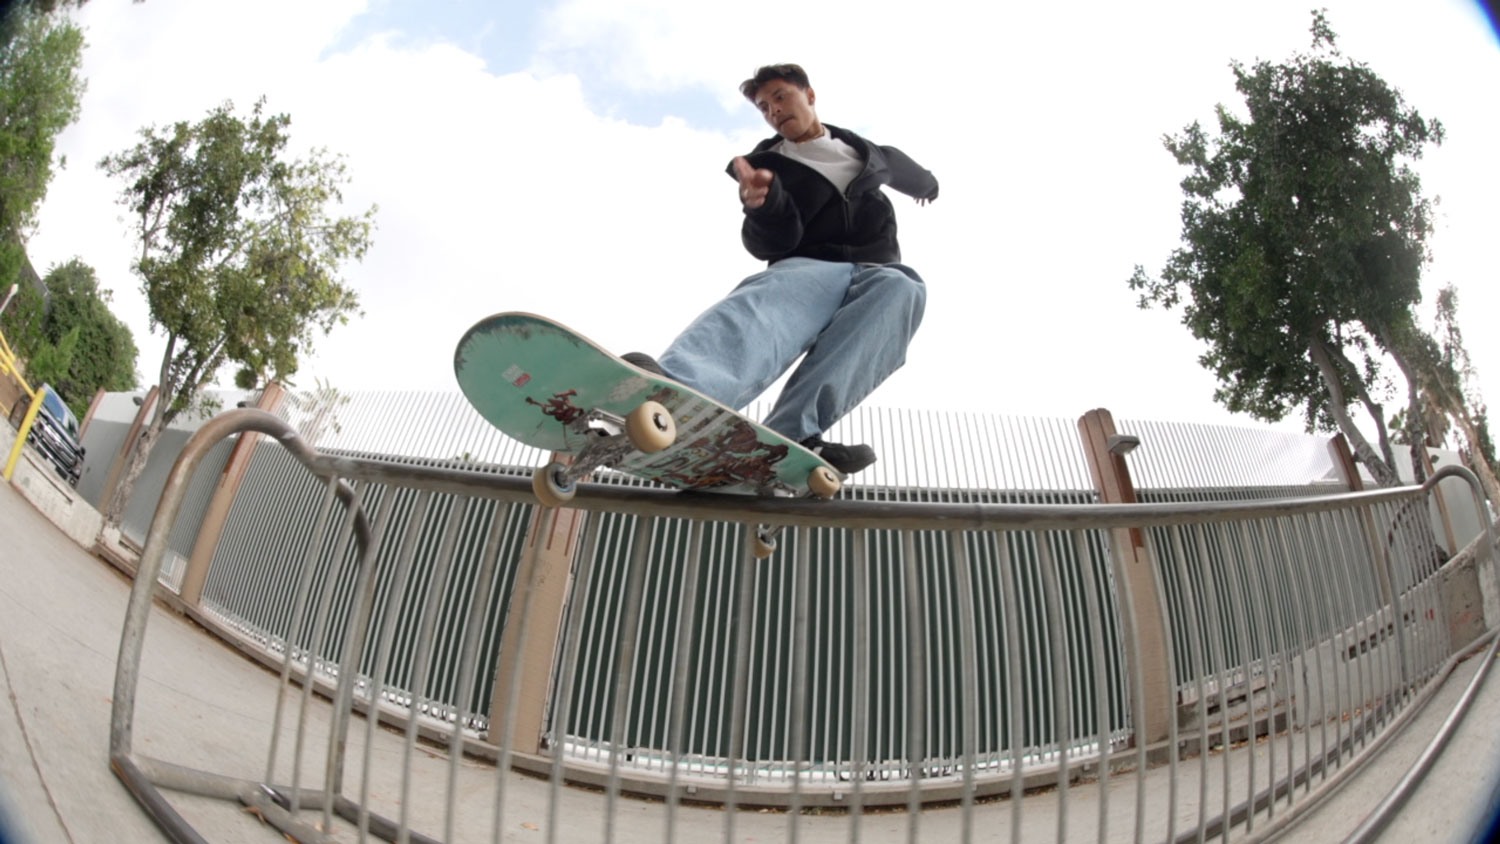
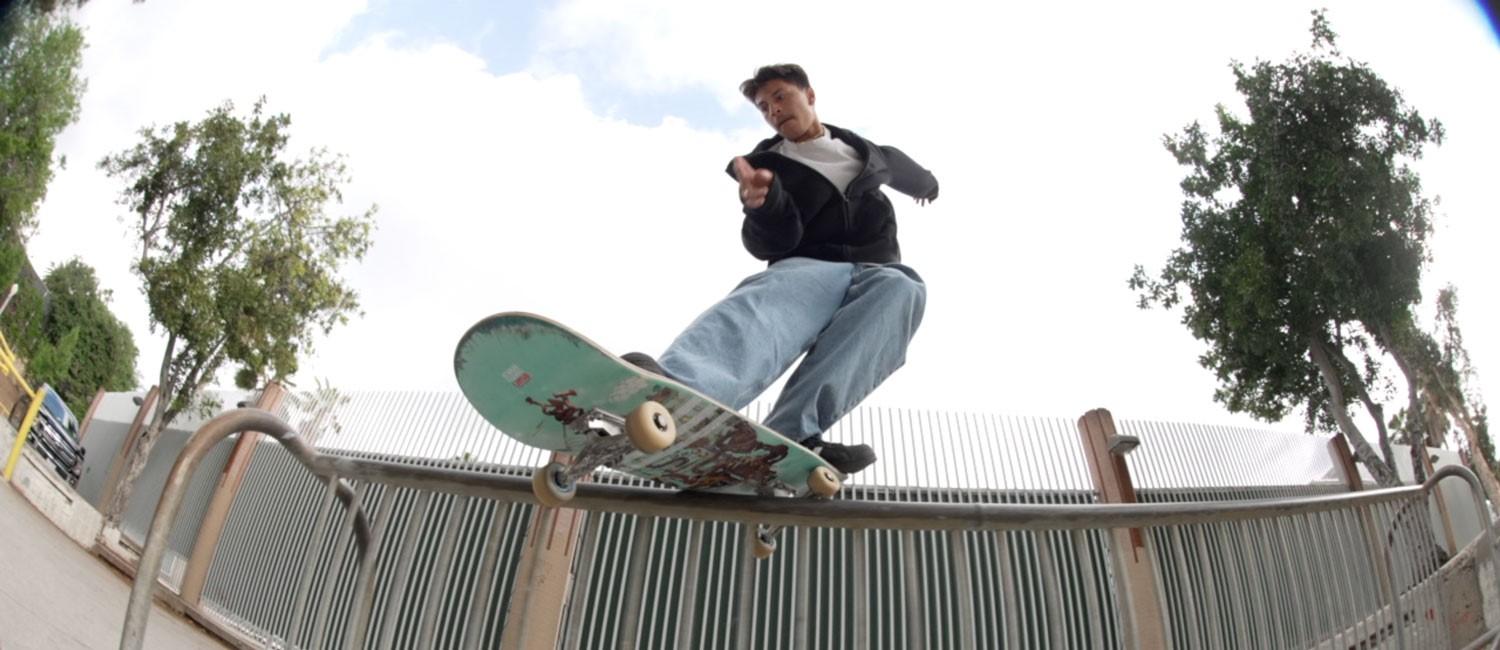
Correzione php + fix carosello + bottoni

diff --git a/SKATERS/index.html b/SKATERS/index.html
@@ -9,31 +9,31 @@
 </head>
 <body>
     <div class="fixed-bar">
-        <button>LOGO</button>
+        <button class="btn btn-outline-secondary btn-lg">LOGO</button>
         <div style="display: flex; justify-content: right; align-items: end; height: 0vh; width: 96vw;">
-            <button id="Bvideo">VIDEOS</button>
-            <button id="Bmappe">MAPPE</button>
-            <button id="Bshop">SHOP</button>
-            <button id="Baccedi">ACCEDI</button>
+            <button class="btn btn-outline-secondary" style="margin-right: 5px;" id="Bvideo" >VIDEOS</button>
+            <button class="btn btn-outline-secondary" style="margin-right: 5px;" id="Bmappe">MAPPE</button>
+            <button class="btn btn-outline-secondary" style="margin-right: 5px;" id="Bshop">SHOP</button>
+            <button class="btn btn-outline-secondary" style="margin-right: 5px;"  id="Baccedi">ACCEDI</button>
         </div>
     </div>
     <div class="grid">
-        <div class="c1">
-            <div id="myCarousel" class="carousel carousel-fade w-75 m-auto" data-bs-ride="carousel">
+        <div class="c1" >
+            <div id="myCarousel" class="carousel carousel-fade w-75 m-auto" data-bs-ride="carousel" >
                 <div class="carousel-indicators">
                     <button data-bs-target="#myCarousel" data-bs-slide-to="0" class="active"></button>
                     <button data-bs-target="#myCarousel" data-bs-slide-to="1"></button>
                     <button data-bs-target="#myCarousel" data-bs-slide-to="2"></button>
                 </div>
-                <div class="carousel-inner">
+                <div class="carousel-inner" >
                     <div class="carousel-item active">
-                        <img src="immagini/Carosello1.jpg">
+                        <img src="immagini/Carosello1.jpg" class="d-block w-100" alt="..." style="max-height: 100%;" >
                     </div>
                     <div class="carousel-item">
-                        <img src="immagini/Carosello2.jpg">
+                        <img src="immagini/Carosello2.jpg" class="d-block w-100" alt="..." style="max-height: 100%;" >
                     </div>
                     <div class="carousel-item">
-                        <img src="immagini/Carosello3.jpg">
+                        <img src="immagini/Carosello3.jpg" class="d-block w-100" alt="..." style="max-height: 100%;"  >
                     </div>
                 </div>
                 <button class="carousel-control-prev" data-bs-target="#myCarousel" data-bs-slide="prev">
@@ -76,7 +76,7 @@
                 <label style="margin-left: 1%;"><input type="checkbox"> Skateshop</label>
             </div>
 
-            <iframe src="https://www.google.com/maps/d/u/0/embed?mid=155q4x6fTGhEwpfhM4LlcNZPMwiq_G2w&ehbc=2E312F" width="1000" height="480" style="margin-top: -95px; z-index: 1; position: relative;"></iframe>
+            <iframe src="https://www.google.com/maps/d/u/0/embed?mid=155q4x6fTGhEwpfhM4LlcNZPMwiq_G2w&ehbc=2E312F" width="90%" height="480" style="margin-top: -95px; z-index: 1; position: relative;"></iframe>
         </div>
         <div class="c4" >
             <h2 style="font-weight: 700; text-align: left; margin-left: 5%;">
@@ -85,14 +85,14 @@
             <hr style="border-color: #333; border-width: 3px; margin-bottom: 5px; margin-top: 1px; opacity: 1; margin-left: 5%; width: 90%;">
             <div style="display: flex; justify-content: center; align-items: center; height: 45vh; width: 100%; margin-top: 2%;">
                 <img src="immagini/shop3.jpg" style="width: 78%;">
-                <button id="Bshop" type="button" class="btn btn-outline-light" style="position: absolute; z-index: 2;width: 10%;height: 10%;font-size:x-large;">SHOP</button>
+                <button id="Bshop" type="button" class="btn btn-outline-light" style="position: absolute; z-index: 2;width: 100px;height: 50px;font-size:x-large;">SHOP</button>
             </div>
             <div class="sfondo-trasparente-shop" id="sfondo" style="z-index: 1;"></div>
         </div>
-        <div class="c5" style="display: flex; align-items: center; justify-content: space-between; background-color: #333; height: 100px;overflow: hidden; ">
+        <div class="c5" style="display: flex; align-items: center; justify-content: space-between; background-color: #333; height: 100px;overflow: hidden;">
             <div align="left">
                 
-                <input type="text" placeholder="Facci una domanda" size="22" style="margin-bottom: 7%;">
+                <input type="text" placeholder="Facci una domanda" size="22" style="margin-bottom: 7%; border-radius: 5px;">
                 <h1 style="font-weight: 700; text-align: left; font-size: small; color: rgb(255, 255, 255); ">
                     CONTATTACI: skaters@gmail.com
                 </h1>
@@ -107,7 +107,6 @@
         </div>
     </div>  
 
-    
     <script src="script.js"></script>
 </body>
 </html>

diff --git a/SKATERS/registrazione/registrazione.html b/SKATERS/registrazione/registrazione.html
@@ -19,8 +19,8 @@
     
     <div class="grid">
         <div class="c1" style="overflow: hidden; text-align: center;">
+            <form name="formReg" action="registrazione.php" method="POST" > 
             <table>
-                <form name="formReg" action="registrazione.php" method="GET" > 
                     <tr>
                         <td colspan='3' style="text-align: left;">Nome:</td>
                     </tr>
@@ -131,11 +131,12 @@
                             <input type="text" name="n_telefono" placeholder="Inserisci il numero di telefono" size="22">
                         </td>
                     </tr>
+                    <tr><td>
                     <button type="submit" style="margin-top: 5%;">
                         REGISTRATI
-                    </button>
-                </form>
+                    </button></td></tr>
             </table>
+        </form>
             
         </div>
 

diff --git a/SKATERS/style.css b/SKATERS/style.css
@@ -10,8 +10,6 @@
     text-align: center;
     /* Imposta la terza riga per occupare tutto lo spazio disponibile */
     grid-template-rows: auto;
-    
-    
 }
 .grid > div {
     overflow: auto;
@@ -36,6 +34,9 @@
     background-image: url('immagini/sfondo.jpg');
     background-size: cover;
     background-repeat: no-repeat;
+    max-width: 100%;
+    
+    
 }
 
 .sfondo-trasparente {
@@ -51,7 +52,6 @@
     grid-area: s;
     width: 90%;
     margin: auto;
-    
 }
 
 .c3{
@@ -96,6 +96,8 @@
 .carousel-inner img {
     width: 100%;
     height: auto;
+    
+    
 }
 .video{
     display: inline-block;

diff --git a/SKATERS/registrazione/registrazione.php b/SKATERS/registrazione/registrazione.php
@@ -7,10 +7,11 @@
     <body>
         <?php
 
-        print_r($_POST);
-        print_r($GLOBALS);
+    print_r($_SERVER["REQUEST_METHOD"]);
+    print_r($_POST);
+       
 
-        $connessione = pg_connect("host=localhost port=5432 dbname=Skaterss user=postgres password=Lamborghini02!") or die("errore di connessione: " . pg_last_error() );
+        $connessione = pg_connect("host=localhost port=5432 dbname=Skaters user=postgres password=biar") or die("errore di connessione: " . pg_last_error() );
 
         if (!$connessione){
             die("Connessione al database fallita: " . pg_last_error());
